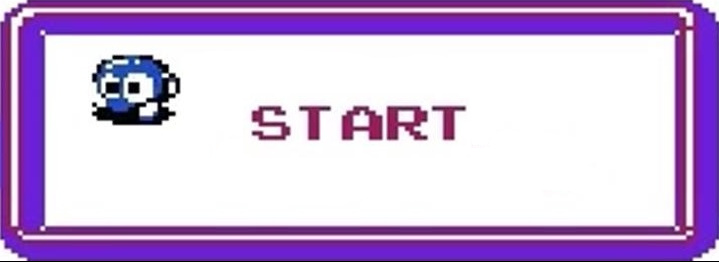
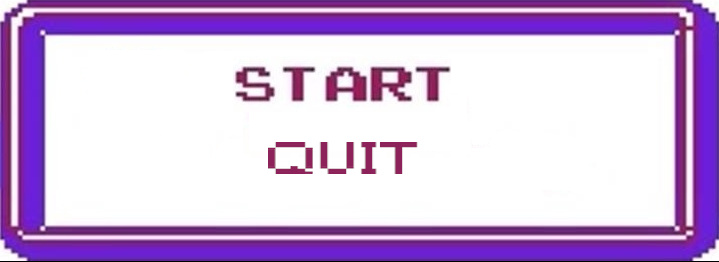
Menu Bonito
menu bonito e funcionando, basta usar as setas para alterar a opcao

Changed region(s): [[0.306, 0.2443, 0.6732, 0.6718], [0.1224, 0.1832, 0.2754, 0.4885]]

diff --git a/Projeto_Jogo_POO/src/gamestates/Menu.java b/Projeto_Jogo_POO/src/gamestates/Menu.java
@@ -1,6 +1,7 @@
 package gamestates;
 
 import java.awt.Graphics;
+
 import java.awt.event.KeyEvent;
 import java.awt.image.BufferedImage;
 
@@ -11,13 +12,29 @@ import utilz.LoadSave;
 public class Menu extends State implements Statemethods {
 
 	private MenuButton[] buttons = new MenuButton[1];
+	private int aniTick, aniIndex, aniSpeed = 25;
 	private BufferedImage backgroundImg;
+	private BufferedImage[][] animations;
 	private int menuX, menuY, menuWidth, menuHeight;
+	private int menuIndex;
 
 	public Menu(Game game) {
 		super(game);
 		loadButtons();
+		loadAnimations();
 		loadBackground();
+		menuIndex = 0;
+
+	}
+
+	private void loadAnimations() {
+
+		BufferedImage img = LoadSave.GetSpriteAtlas(LoadSave.PLAYER_ATLAS);
+
+		animations = new BufferedImage[4][5];
+		for (int j = 0; j < animations.length; j++)
+			for (int i = 0; i < animations[j].length; i++)
+				animations[j][i] = img.getSubimage(i * Game.TILES_DEFAULT_SIZE, j * Game.TILES_DEFAULT_SIZE, Game.TILES_DEFAULT_SIZE, Game.TILES_DEFAULT_SIZE);
 
 	}
 
@@ -33,6 +50,7 @@ public class Menu extends State implements Statemethods {
 	private void loadButtons() {
 		buttons[0] = new MenuButton(Game.GAME_WIDTH / 2, (int) (150 * Game.SCALE), 0, Gamestate.PLAYING);
 	}
+	
 
 	@Override
 	public void draw(Graphics g) {
@@ -41,12 +59,34 @@ public class Menu extends State implements Statemethods {
 
 		for (MenuButton mb : buttons)
 			mb.draw(g);
+		
+		if(menuIndex == 1)
+			g.drawImage(animations[0][aniIndex], 230, 640, (int) (12 * Game.SCALE), (int) (12 * Game.SCALE), null);
+		
+		if(menuIndex == 0)
+			g.drawImage(animations[0][aniIndex], 220, 595, (int) (12 * Game.SCALE), (int) (12 * Game.SCALE), null);
 	}
+
 
 	@Override
 	public void keyPressed(KeyEvent e) {
-		if (e.getKeyCode() == KeyEvent.VK_ENTER)
-			Gamestate.state = Gamestate.PLAYING;
+		
+		if(e.getKeyCode() == KeyEvent.VK_UP)
+			if(menuIndex == 1)
+				menuIndex--;
+		
+		if(e.getKeyCode() == KeyEvent.VK_DOWN)
+			if(menuIndex == 0)
+				menuIndex++;
+		
+		if (e.getKeyCode() == KeyEvent.VK_ENTER) {
+			
+			if(menuIndex == 0)
+				Gamestate.state = Gamestate.PLAYING;
+			
+			else if(menuIndex == 1)
+				System.exit(0);
+		}
 
 	}
 
@@ -59,7 +99,18 @@ public class Menu extends State implements Statemethods {
 	@Override
 	public void update() {
 		// TODO Auto-generated method stub
+		aniTick++;
 		
+		if (aniTick >= aniSpeed) {
+			
+			aniTick = 0;
+			aniIndex++;
+			
+			if (aniIndex >= 4) {
+				
+				aniIndex = 0;
+			}
+		}
 	}
 
 }
